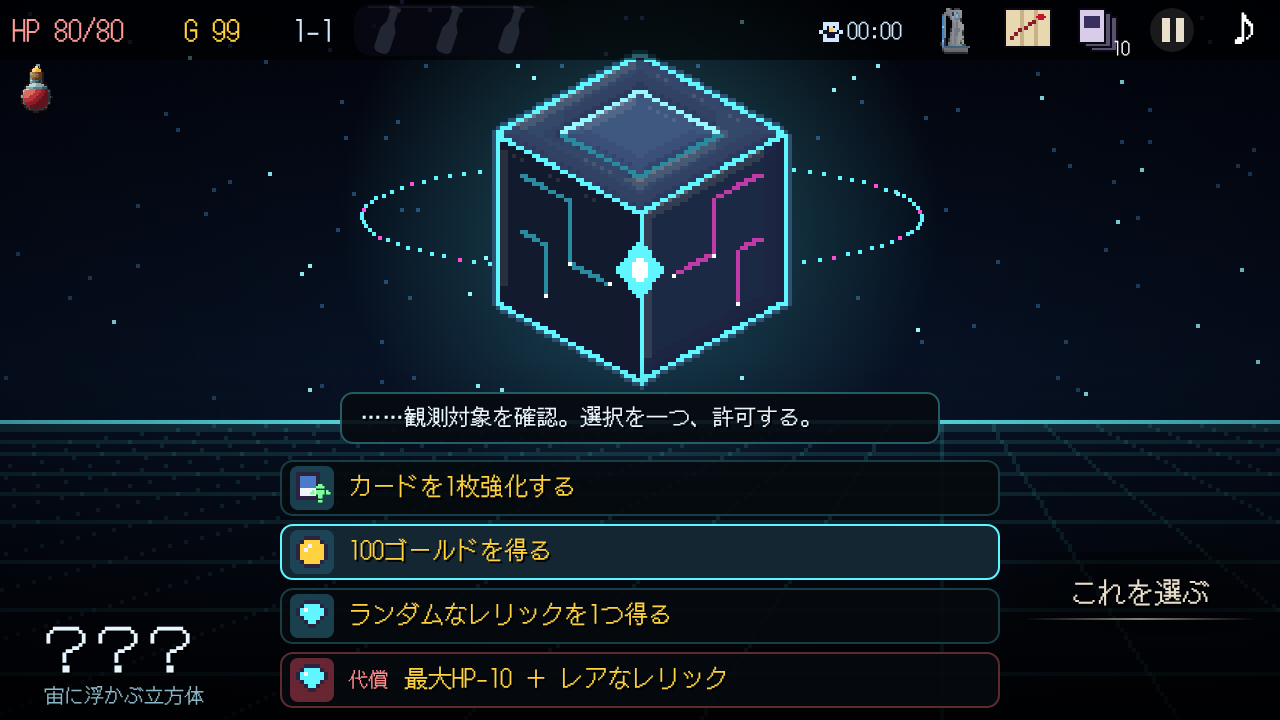
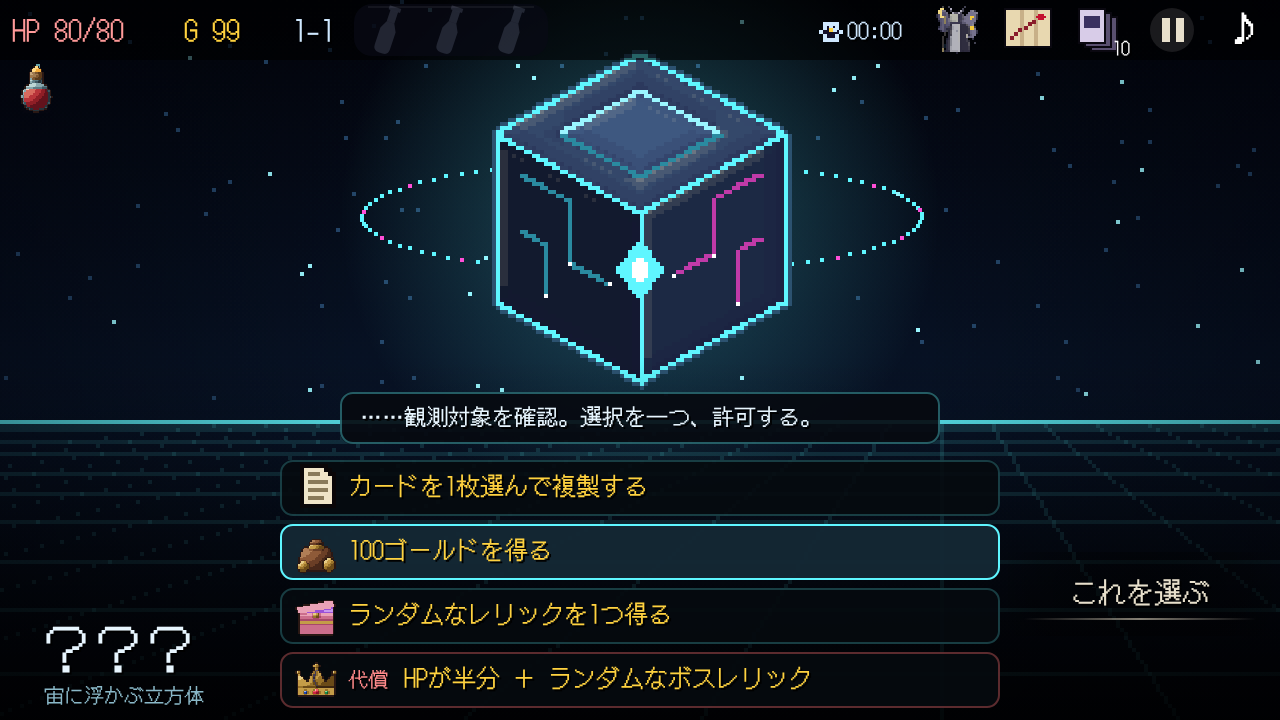
？？？の案：アイコンを古の者と同じ作りに、枠をなくした
Claude-Session: https://claude.ai/code/session_01WH54oTTdm7YGPdYF8fgvfp

diff --git a/dev/mock/neow_anc_shot.js b/dev/mock/neow_anc_shot.js
@@ -1,12 +1,14 @@
 // ？？？の画面を古の者の画面と同じ作りにした案（見本）。撮影：node dev/mock/neow_anc_shot.js 出力先
 const {chromium}=require('playwright'),path=require('path');(async()=>{const b=await chromium.launch();const p=await b.newPage({viewport:{width:640,height:360},deviceScaleFactor:2});await p.goto('file://'+path.resolve(__dirname,'../index.html'));await p.waitForTimeout(600);
-await p.evaluate(()=>{startGame();newRun(0);neowGen();NE.opts=['カードを1枚強化する','100ゴールドを得る','ランダムなレリックを1つ得る','【代償】最大HP-10 ＋ レアなレリック'].map(l=>[l,()=>{}]);NE.t0=T-5;go('neow');S='mock';const sel=1;
+await p.evaluate(()=>{startGame();newRun(0);neowGen();NE.opts=['カードを1枚選んで複製する','100ゴールドを得る','ランダムなレリックを1つ得る','【代償】HPが半分 ＋ ランダムなボスレリック'].map(l=>[l,()=>{}]);NE.t0=T-5;go('neow');S='mock';const sel=1;
 /* 選択肢の種類ごとのアイコン（8×8 の点・1点2px）。代償のある選択肢は得る側（＋の後ろ）で決める */
 const G={card:["oooooo..","oaaaao..","oaaaao..","oaaaao..","owwwwo..","owwwwo..","oooooo..","........"],coin:["..oooo..",".oyyyyo.","oyywyyyo","oywyyyyo","oyyyyyyo","oyyyyyyo",".oyyyyo.","..oooo.."],heart:[".rr..rr.","rwrrrrrr","rrrrrrrr","rrrrrrrr",".rrrrrr.","..rrrr..","...rr...","........"],potion:["...cc...","...gg...","..gggg..",".gppppg.","gppwpppg","gppppppg",".gppppg.","..gggg.."],relic:["..oooo..",".obbbbo.","obwbbbbo","obbbbbbo",".obbbbo.","..obbo..","...oo...","........"],up:["...gg...","..gggg..",".gggggg.","gggggggg","...gg...","...gg...","...gg...","........"],x:["r.....r.",".r...r..","..r.r...","...r....","..r.r...",".r...r..","r.....r.","........"],energy:["....yy..","...yy...","..yyy...",".yyyyy..","...yy...","..yy....",".yy.....","........"],elite:["w......w","w.wwww.w",".wwwwww.",".wkwwkw.",".wwwwww.","..wkkw..","..wwww..","........"],bag:["..oo....","...o....",".oyyyo..","oyyyyyo.","oyywyyo.","oyyyyyo.",".ooooo..","........"],swap:[".pppp...","p....p..","p.....p.","......p.","p.....p.","pp...p..","p.ppp...","........"]};
 const GC={o:'#2a2440',a:'#4a7ac8',w:'#f6f2ff',y:'#ffd23f',r:'#e05050',c:'#8a6a4a',g:'#9af6ff',p:'#ff6ad0',b:'#5ff6ff',k:'#1a1430'};
 window.nKind=l=>{const t=l.includes('＋')?l.split('＋').pop():l;return t.includes('強化')?['card','up']:t.includes('消す')?['card','x']:t.includes('複製')?['card2']:t.includes('書き換え')?['card','swap']:t.includes('エリート')?['elite']:t.includes('ショップ')?['bag']:t.includes('エナジー')?['energy']:t.includes('レリック')?['relic']:t.includes('ポーション')?['potion']:t.includes('ゴールド')?['coin']:t.includes('最大HP')?['heart']:['card']};
 window.nIcon=(ks,cx,cy)=>{const one=(k,ox,oy,sc)=>{const g=G[k];g.forEach((r,j)=>[...r].forEach((ch,i)=>{if(ch==='.')return;ctx.fillStyle=k==='up'&&ch==='g'?'#7dff9a':GC[ch];ctx.fillRect(Math.round(ox+i*sc),Math.round(oy+j*sc),sc,sc)}))};
  if(ks[0]==='card2'){one('card',cx-9,cy-9,2);one('card',cx-4,cy-5,2);return}one(ks[0],cx-8,cy-8,2);if(ks[1])one(ks[1],cx-1,cy-2,1.25)};
+/* 古の者と同じ作り：レリックと同じ陰影付きのドット絵（古の者の絵 ANIC とレリックの絵）を枠なしで置く */
+window.nIco=l=>{const t=l.includes('＋')?l.split('＋').pop():l,A=k=>ANIC[k],Rr=k=>rIcon(k);return t.includes('強化')?Rr('stsw'):t.includes('消す')?A('ash'):t.includes('複製')?A('page'):t.includes('書き換え')?A('sand'):t.includes('エリート')?Rr('skull'):t.includes('ショップ')?Rr('coffer'):t.includes('エナジー')?Rr('lamp'):t.includes('ボスレリック')?Rr('crown'):t.includes('レアなレリック')?Rr('ruby'):t.includes('レリック')?Rr('pandora'):t.includes('ポーション')?Rr('bottle'):t.includes('ゴールド')?Rr('purse'):t.includes('最大HP')?Rr('heart'):t.includes('レア')?A('seed'):A('acard')};
 window.drawMock=()=>{ctx.drawImage(NEB,0,0);const cx=320,cy=104+Math.sin(T*1.3)*4,cb=SPR.qcube;
  const cg=ctx.createRadialGradient(cx,cy,10,cx,cy,150);cg.addColorStop(0,'rgba(95,246,255,.28)');cg.addColorStop(1,'rgba(95,246,255,0)');ctx.fillStyle=cg;ctx.fillRect(cx-150,cy-150,300,300);
  for(let k=0;k<90;k++){const a=k/90*6.283+T*.5;ctx.fillStyle=k%7?'#5ff6ff':'#ff4fd8';ctx.fillRect(Math.round(cx+Math.cos(a)*140),Math.round(cy+Math.sin(a)*28),2,2)}
@@ -15,7 +17,7 @@ window.drawMock=()=>{ctx.drawImage(NEB,0,0);const cx=320,cy=104+Math.sin(T*1.3)*
  const qx=170,qy=196;ctx.fillStyle='rgba(6,10,16,.92)';anRR(qx,qy,300,26,6);ctx.fill();ctx.strokeStyle='rgba(95,246,255,.35)';ctx.lineWidth=1;anRR(qx+.5,qy+.5,299,25,6);ctx.stroke();txt('……観測対象を確認。選択を一つ、許可する。',qx+10,qy+17,'#e8f6ff','left',11);
  NE.opts.forEach((o,i)=>{const R=o[0].startsWith('【代償】'),l=o[0].replace('【代償】',''),m=l.match(/^(.*?)(（.*）)?$/),y=230+i*32,x=140,w=360,h=28,me=sel===i;
   ctx.fillStyle=me?'rgba(20,40,52,.96)':'rgba(6,10,14,.9)';anRR(x,y,w,h,6);ctx.fill();ctx.strokeStyle=me?'#5ff6ff':R?'rgba(255,110,110,.35)':'rgba(95,246,255,.22)';anRR(x+.5,y+.5,w-1,h-1,6);ctx.stroke();
-  const ix=x+16,iy=y+14;ctx.fillStyle=R?'rgba(122,42,58,.85)':'rgba(30,74,90,.85)';anRR(ix-11,iy-11,22,22,4);ctx.fill();nIcon(nKind(o[0]),ix,iy);
+  const ix=x+16,iy=y+14;ctx.imageSmoothingEnabled=false;ctx.drawImage(nIco(o[0]),x+6,y+2,24,24);
   if(R)txt('代償',x+34,y+18,'#ff8a8a','left',10);txt(m[1],x+(R?62:34),y+18,'#ffd23f','left',12);ctx.globalAlpha=1});
  txt('？？？',20,336,'#e8f6ff','left',26);txt('宙に浮かぶ立方体',22,352,'#8ab8c8','left',10);
  btn(512,282,116,30,'これを選ぶ',()=>{},'#2a6a8a',14)};

diff --git a/dev/HISTORY.md b/dev/HISTORY.md
@@ -932,4 +932,4 @@
 - 密林の遺跡のボス曲 `j2x` を 132→108BPM（通常曲96より少し速いだけに）。
 - （4.70 続き・ユーザー指定）密林のボス曲 `j2x` を別の曲に作り直し：密林の楽器（木琴・丸太の太鼓・手の太鼓・振り鳴らし・木の笛）のまま、合唱・弦・金管・大太鼓・ティンパニで壮大に（ホ短調・104BPM・32小節、A 霧→B 部族の太鼓と金管の主題→C 頂点→D 合唱と笛）。確認用 `dev/mock/jungle_boss_v2.mp3`。
 - 廃棄の欄はターン終了ボタンのやや上（`exPile` の cx=610,cy=238、数は右）。
-- ？？？の案の画像：左の番号を選択肢の種類のアイコン（カード・強化・削除・複製・書き換え・ゴールド・ポーション・レリック・最大HP・エナジー・ショップ・エリート）に（`dev/mock/neow_anc_shot.js` の `nKind`/`nIcon`）。
+- ？？？の案の画像：左は古の者と同じ作りのアイコン（古の者の絵 `ANIC` とレリックの絵を枠なしで。`dev/mock/neow_anc_shot.js` の `nIco`）。
